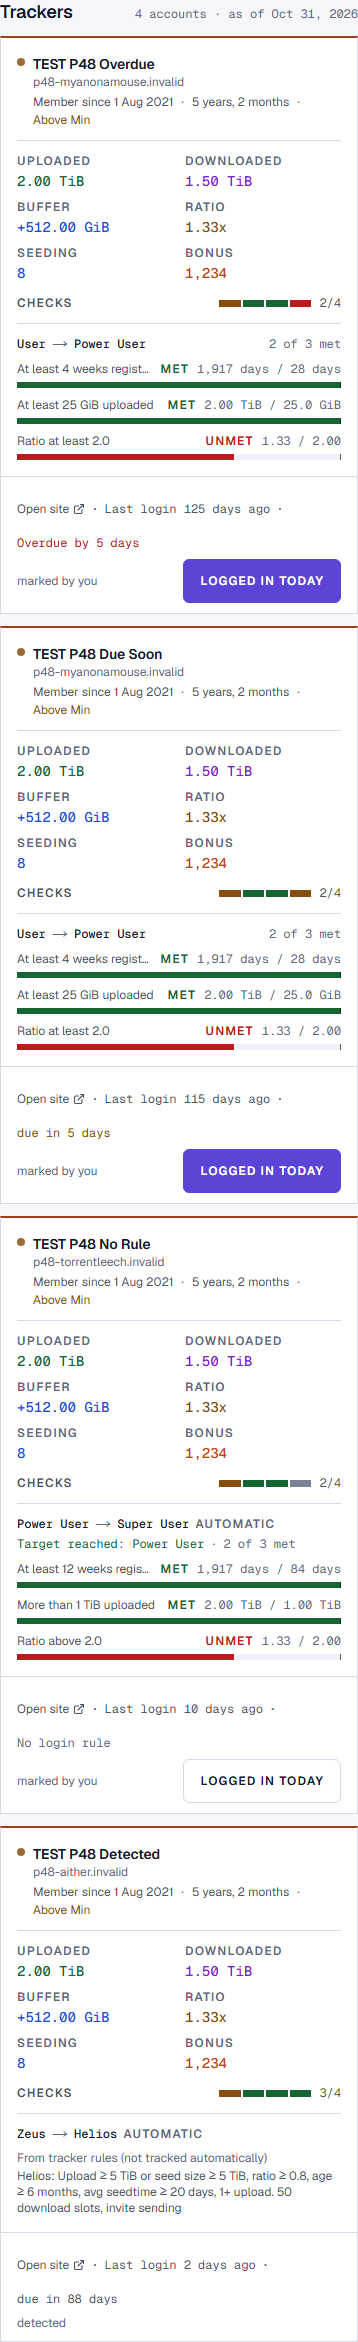
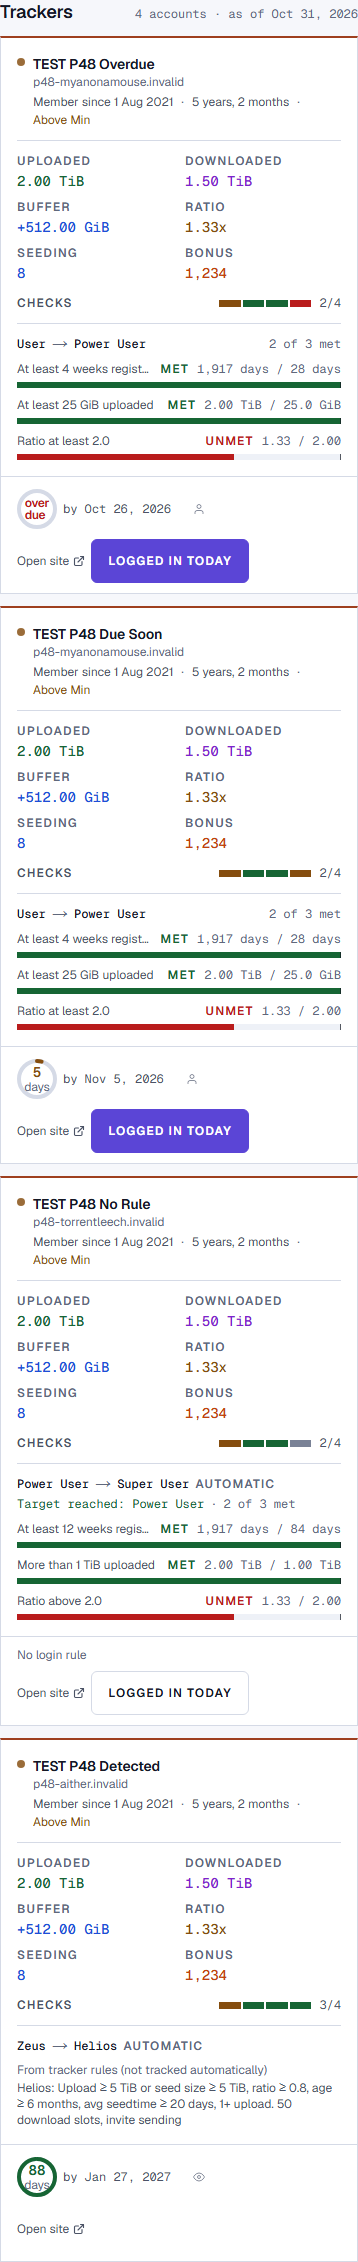
test(dashboard): update e2e card footer assertions for the login ring

diff --git a/e2e/visual.spec.ts b/e2e/visual.spec.ts
@@ -2155,9 +2155,10 @@ test.describe.serial("P42 dashboard card visual evidence", () => {
     const grid = page.locator("#main-content [data-tracker-grid]")
     await expect(grid).toBeVisible({ timeout: 15_000 })
     await expect(grid.getByText("TEST P42 Manual Login")).toBeVisible()
-    await expect(grid.getByText(/Last login 11[456] days ago/)).toBeVisible()
-    await expect(grid.getByText("marked by you")).toBeVisible()
-    await expect(grid.getByText("detected", { exact: true })).toBeVisible()
+    await expect(grid.getByLabel(/Login due in 5 days/)).toBeVisible()
+    await expect(grid.locator('[data-login-ring][data-login-tone="warn"]')).toHaveCount(1)
+    await expect(grid.getByRole("button", { name: "Marked by you" })).toBeVisible()
+    await expect(grid.getByRole("button", { name: "Detected from the tracker" })).toBeVisible()
     await expect(grid.getByText("2 of 3 met")).toBeVisible()
     const dueButton = grid.getByRole("button", { name: "Logged in today" })
     await expect(dueButton).toHaveAttribute("data-login-due", "true")
@@ -2303,18 +2304,17 @@ test.describe.serial("P48 login deadline visual evidence", () => {
     await expect(grid).toBeVisible({ timeout: 15_000 })
     await expect(grid.getByText("TEST P48 Overdue")).toBeVisible()
 
-    await expect(grid.getByText("Last login 125 days ago")).toBeVisible()
-    const overdue = grid.getByText("Overdue by 5 days")
+    const overdue = grid.getByLabel(/Login overdue by 5 days/)
     await expect(overdue).toBeVisible()
-    await expect(overdue).toHaveClass(/text-danger/)
+    await expect(overdue).toContainText("overdue")
+    await expect(grid.locator('[data-login-ring][data-login-tone="crit"]')).toHaveCount(1)
 
-    const dueSoon = grid.getByText("due in 5 days")
-    await expect(dueSoon).toBeVisible()
-    await expect(dueSoon).toHaveClass(/text-warn/)
+    await expect(grid.getByLabel(/Login due in 5 days/)).toBeVisible()
+    await expect(grid.locator('[data-login-ring][data-login-tone="warn"]')).toHaveCount(1)
 
     await expect(grid.getByText("No login rule")).toBeVisible()
-    await expect(grid.getByText("detected", { exact: true })).toBeVisible()
-    await expect(grid.getByText("marked by you")).toHaveCount(3)
+    await expect(grid.getByRole("button", { name: "Detected from the tracker" })).toBeVisible()
+    await expect(grid.getByRole("button", { name: "Marked by you" })).toHaveCount(2)
     await expect(grid.getByRole("button", { name: "Logged in today" })).toHaveCount(3)
 
     const detected = fixtures.find((fixture) => fixture.lastAccessSource === "detected")

diff --git a/src/components/dashboard/__tests__/TrackerGrid.test.tsx b/src/components/dashboard/__tests__/TrackerGrid.test.tsx
@@ -506,7 +506,7 @@ describe("TrackerGrid", () => {
     const { rerender } = render(
       <TrackerGrid
         trackers={[
-          tracker({ lastAccessAt: "2026-10-25", lastAccessSource: "detected" }),
+          manualTracker({ lastAccessAt: "2026-10-25", lastAccessSource: "detected" }),
         ]}
         summaries={[summary()]}
         now={NOW}
@@ -541,7 +541,8 @@ describe("TrackerGrid", () => {
         now={NOW}
       />
     )
-    expect(screen.getByRole("button", { name: "Marked by you" })).toBeInTheDocument()
+    // No login rule: the footer only carries the muted rule notice.
+    expect(screen.queryByRole("button", { name: "Marked by you" })).not.toBeInTheDocument()
   })
 
   it("shows no ring for a tracker without a login rule, only muted text", () => {
@@ -557,6 +558,7 @@ describe("TrackerGrid", () => {
     expect(noRule).toHaveAttribute("data-login-no-rule")
     expect(container.querySelector("[data-login-ring]")).toBeNull()
     expect(screen.queryByText(/^by /)).not.toBeInTheDocument()
+    expect(screen.queryByRole("button", { name: "Marked by you" })).not.toBeInTheDocument()
   })
 
   it("keeps the ring, source, site link and login button in one footer row", () => {
@@ -724,7 +726,7 @@ describe("TrackerGrid", () => {
     fireEvent.click(screen.getByRole("link", { name: "Open TorrentLeech site" }))
 
     await waitFor(() =>
-      expect(screen.getByRole("button", { name: "Marked by you" })).toBeInTheDocument()
+      expect(screen.getByRole("button", { name: "Undo" })).toBeInTheDocument()
     )
     expect(fetchMock).toHaveBeenCalledTimes(1)
     expect(JSON.parse(String(fetchMock.mock.calls[0]?.[1]?.body))).toEqual({

diff --git a/src/components/dashboard/TrackerGrid.tsx b/src/components/dashboard/TrackerGrid.tsx
@@ -603,7 +603,9 @@ function TrackerCard({
       >
         <div className="flex min-w-0 flex-wrap items-center gap-x-1.5 gap-y-1 xl:flex-1 xl:flex-nowrap">
           <LoginDeadlineReadout deadline={loginDeadline} />
-          {loginSource === "none" ? null : <LoginSourceIcon source={loginSource} />}
+          {loginSource === "none" || !loginDeadline.hasRule ? null : (
+            <LoginSourceIcon source={loginSource} />
+          )}
         </div>
         <div
           className="flex w-full flex-wrap items-center gap-1.5 sm:ml-auto sm:w-auto sm:justify-end"
